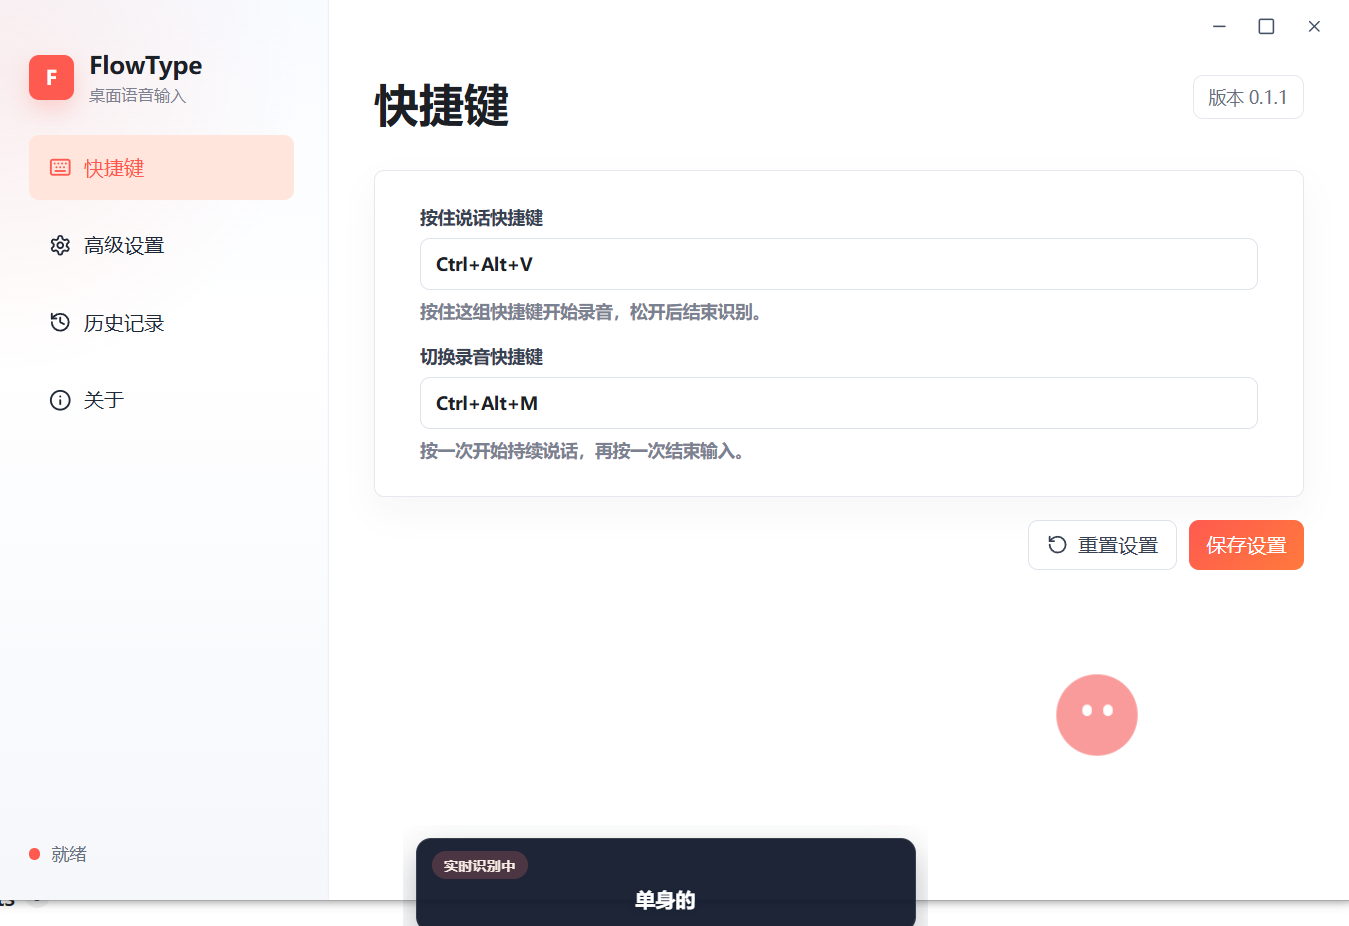
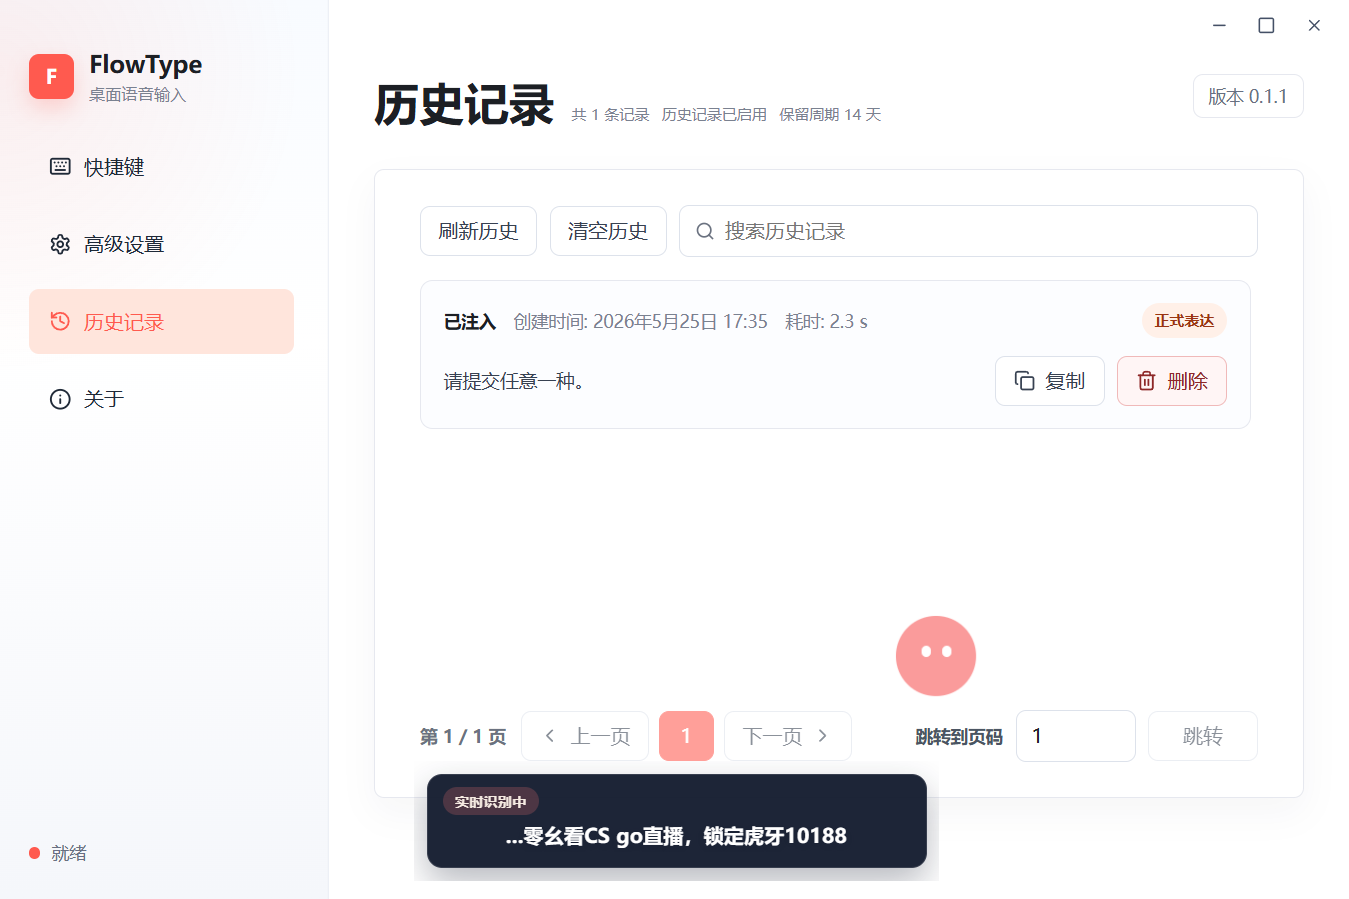
feat：更改readme

diff --git a/README.md b/README.md
@@ -1,12 +1,67 @@
 # FlowType
 
-FlowType 是一个基于 `Tauri 2 + React 19 + Vite 6` 的 Windows 桌面应用项目，定位为语音输入与语音识别相关功能的桌面端基础工程。
+FlowType 是一个基于 `Tauri 2 + React 19 + Vite 6` 的 Windows 桌面语音输入应用，当前已经完成语音输入相关的核心设置与历史记录管理界面。
 
-当前项目已经包含设置界面、历史记录管理、桌面标题栏、全局提示消息、确认弹层以及 Windows 安装包打包能力，适合作为后续语音输入产品功能迭代的基础。
+项目目前主要围绕以下 3 个页面展开：
 
+## 1. 快捷键页面
 
-# 项目页面展示
+快捷键页面用于配置语音输入触发方式，当前支持：
+
+- 按住说话快捷键
+- 切换录音快捷键
+- 快捷键冲突校验
+- 系统保留组合键拦截
+
+适合用于快速完成全局语音输入的基础控制配置。
+
+## 2. 高级设置页面
+
+高级设置页面用于统一管理文本输出和应用行为，当前主要包含：
+
+- 输出风格设置：`原始转写`、`干净文本`、`正式表达`
+- 正式表达技能选择：`general`、`email`、`greeting`、`professional_reply`
+- 显示语言设置
+- 悬浮窗显示与位置设置
+- 录音时长范围设置
+- VAD 与热词开关
+- 历史记录保留周期
+- 开机启动、自动检查更新、更新通道等系统选项
+
+其中，当输出风格切换为“正式表达”时，会显示对应的正式表达技能选择卡片。
+
+## 3. 历史记录页面
+
+历史记录页面用于查看与管理识别结果，当前支持：
+
+- 分页查看本地历史记录
+- 搜索历史文本
+- 复制单条记录
+- 删除单条记录
+- 清空历史记录
+- 展示识别时间、耗时和注入状态
+
+历史记录当前仅保存文本和相关元数据，不保存音频内容。
+
+## 当前项目能力
+
+除上述三个主要页面外，项目还包含：
+
+- 桌面标题栏与基础窗口控制
+- 全局提示消息
+- 确认弹层
+- 本地 SQLite 历史记录存储
+- Windows 桌面端打包能力
+
+## 项目页面展示
+
+### 快捷键 / 语音输入
+![快捷键](images/kjj.png)
 ![语音识别](images/yysb.png)
-![主页](images/zy.png)
+
+### 高级设置
+![主页](images/gjsz.png)
+
+### 历史记录
 ![历史记录](images/lsjl.png)
 